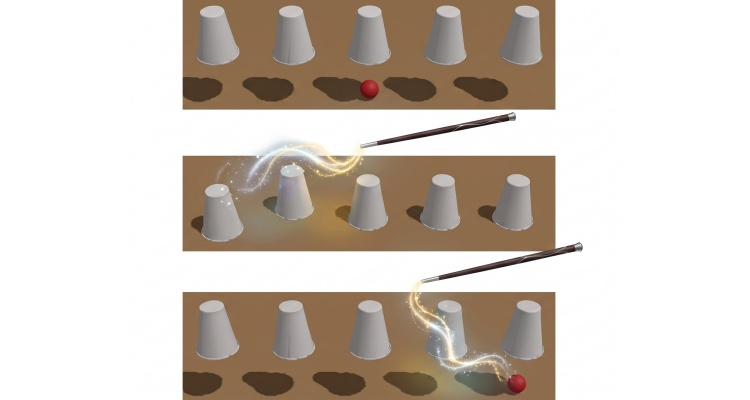
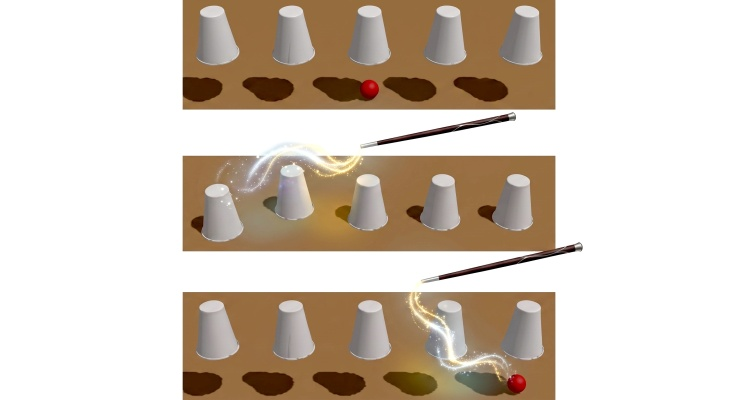
corl 2026 acceptance

diff --git a/index.html b/index.html
@@ -74,6 +74,9 @@ Jaesik Park is an Associate Professor of <a href="https://cse.snu.ac.kr/" target
 					🙋♂🙋♂🙋♂ We are seeking <b>Postdoctoral Researchers</b> specializing in computer vision and robotics. <button type="button" class="btn btn-outline-light btn-sm" onclick="window.open('https://docs.google.com/document/d/1j-OmO6c2r9fyXI3fsNTpLMkA8X5p8sndu9-rbJH7Vxg/edit?usp=sharing')">More details</button>
 				</li>
 				<li class="list-group-item">
+					2026.09. AmodalBox, our automated 3D annotation framework via amodal priors, is accepted to <b>CoRL 2026</b>.
+				</li>
+				<li class="list-group-item">
 					2026.08. Our universal point cloud registration approach has been accepted for publication in <b>TPAMI</b>.
 				</li>
 				<li class="list-group-item">
@@ -88,15 +91,15 @@ Jaesik Park is an Associate Professor of <a href="https://cse.snu.ac.kr/" target
 				<li class="list-group-item">
 					2026.03. Papers about 3D generation and view-synthesis got accepted to <b>CVPR 2026</b> and <b>SIGGRAPH 2026</b>.
 				</li>
-				<li class="list-group-item">
-					2026.01. <b>Three ICLR papers</b> about <a href="publications.html#Do_Direct_ICLR_2026">image to 3D human</a>, <a href="publications.html#Jo_TRACE_ICLR_2026">diffusion edge</a> <b>(oral)</b>, and <a href="publications.html#Shin_MotionStream_ICLR_2026">real-time video generation</a> <b>(oral)</b> are accepted.
-				</li>
 			</ul>
 			<button class="btn btn-outline-secondary shadow-sm" type="button" data-bs-toggle="collapse" data-bs-target="#previousNews" aria-expanded="false" aria-controls="previousNews">
 				Previous &#9661;
 			</button>
 			<div class="collapse" id="previousNews">
 				<ul class="list-group shadow-sm">
+					<li class="list-group-item">
+						2026.01. <b>Three ICLR papers</b> about <a href="publications.html#Do_Direct_ICLR_2026">image to 3D human</a>, <a href="publications.html#Jo_TRACE_ICLR_2026">diffusion edge</a> <b>(oral)</b>, and <a href="publications.html#Shin_MotionStream_ICLR_2026">real-time video generation</a> <b>(oral)</b> are accepted.
+					</li>
 					<li class="list-group-item">
 						2026.01. Our targetless LiDAR-camera calibration approach has been accepted to <b>RAL</b> and will be presented at <b>ICRA 2026</b>.
 					</li>

diff --git a/publications.html b/publications.html
@@ -67,6 +67,31 @@
 
 <div class="container">
 	<div class="row gx-5 gy-4">
+		<div class="col-lg-4 text-center" id="Lee_AmodalBox_CoRL_2026">
+			<img src="publications/data/26_corl.jpg" class="img-fluid rounded float-center img-thumbnail shadow mb-3">
+			<h4 class="em-tight">AmodalBox: Automated 3D Bounding Box Annotation under Partial Visibility</h4>
+			<p class="text-muted">
+				In-Jae Lee, Namtae Kim, Robert Exley, Kwonyoung Ryu, and <b>Jaesik Park</b>.
+				<em>The Conference on Robot Learning (<b>CoRL</b>), 2026</em>
+			</p>
+			<p>
+				<a class="btn btn-outline-secondary btn-sm" role="button" data-bs-toggle="collapse" data-bs-target="#Lee_AmodalBox_CoRL_2026_bibtex_button" aria-expanded="false" aria-controls="Lee_AmodalBox_CoRL_2026_bibtex_button">BibTeX</a>
+			</p>
+			<div class="collapse" id="Lee_AmodalBox_CoRL_2026_bibtex_button">
+				<div class="card">
+					<div class="card-body">
+						<p class="card-text text-start fw-lighter">
+							@inproceedings{Lee_AmodalBox_CoRL_2026,<br>
+							Title={AmodalBox: Automated 3D Bounding Box Annotation under Partial Visibility},<br>
+							Author={In-Jae Lee and Namtae Kim and Robert Exley and Kwonyoung Ryu and Jaesik Park},<br>
+							Booktitle={Proceedings of the The Conference on Robot Learning (CoRL)},<br>
+							Year={2026}<br>
+							}
+						</p>
+					</div>
+				</div>
+			</div>
+		</div>
 		<div class="col-lg-4 text-center" id="Shin_Can_arXiv_2026">
 			<img src="publications/data/26_arxiv9.jpg" class="img-fluid rounded float-center img-thumbnail shadow mb-3">
 			<h4>Can Video World Models Track Unobserved World States?</h4>

diff --git a/data/news.html b/data/news.html
@@ -1,4 +1,5 @@
 [banner] 🙋♂🙋♂🙋♂ We are seeking <b>Postdoctoral Researchers</b> specializing in computer vision and robotics. <button type="button" class="btn btn-outline-light btn-sm" onclick="window.open('https://docs.google.com/document/d/1j-OmO6c2r9fyXI3fsNTpLMkA8X5p8sndu9-rbJH7Vxg/edit?usp=sharing')">More details</button>
+2026.09. AmodalBox, our automated 3D annotation framework via amodal priors, is accepted to <b>CoRL 2026</b>.
 2026.08. Our universal point cloud registration approach has been accepted for publication in <b>TPAMI</b>.
 2026.07. Our VLM analysis paper, 'Why Far Looks Up,' has been selected for an <b>Spotlight Oral presentation</b> at <b>ECCV 2026</b>.
 2026.06. <b>Eight ECCV papers</b> about video/image/tactile generation, VLM analysis, interactable 3D recon, and 4DGS got accepted.
